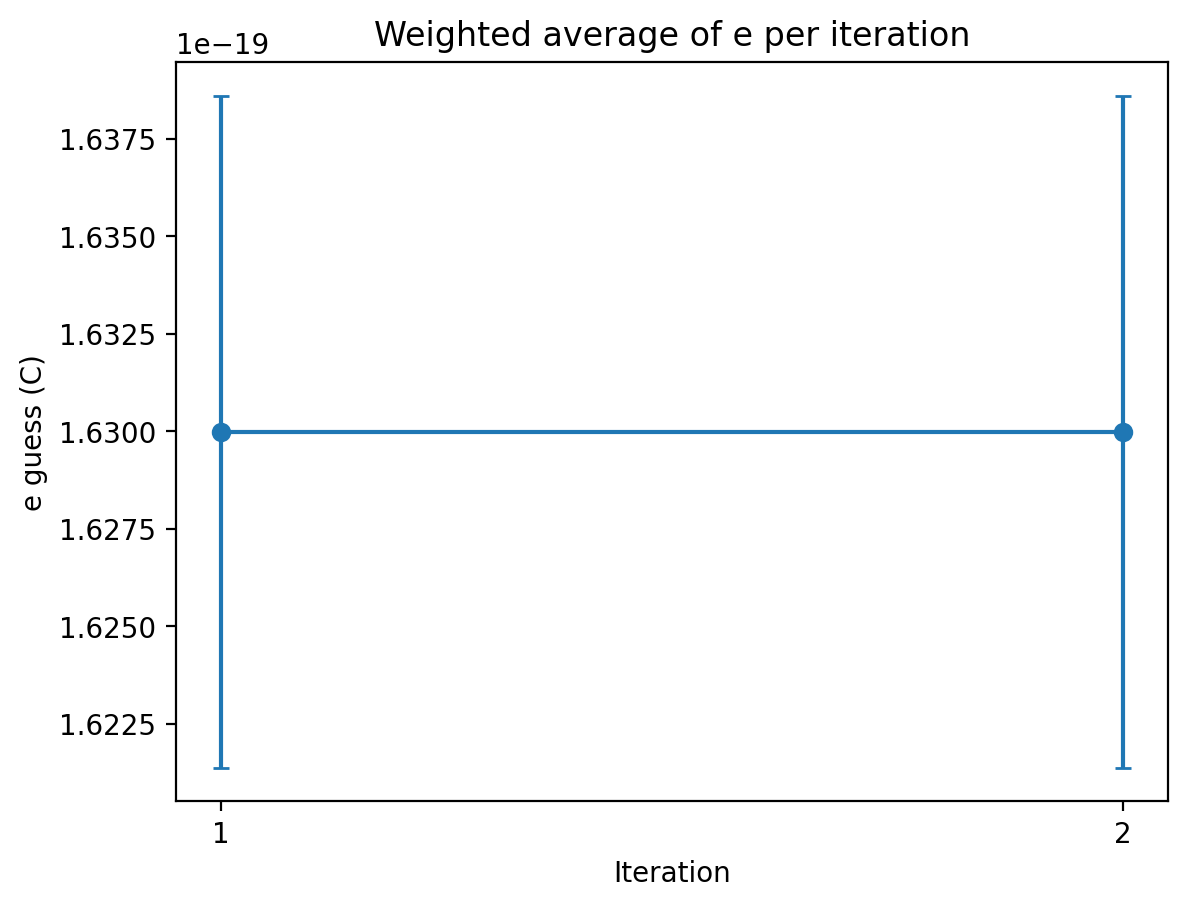
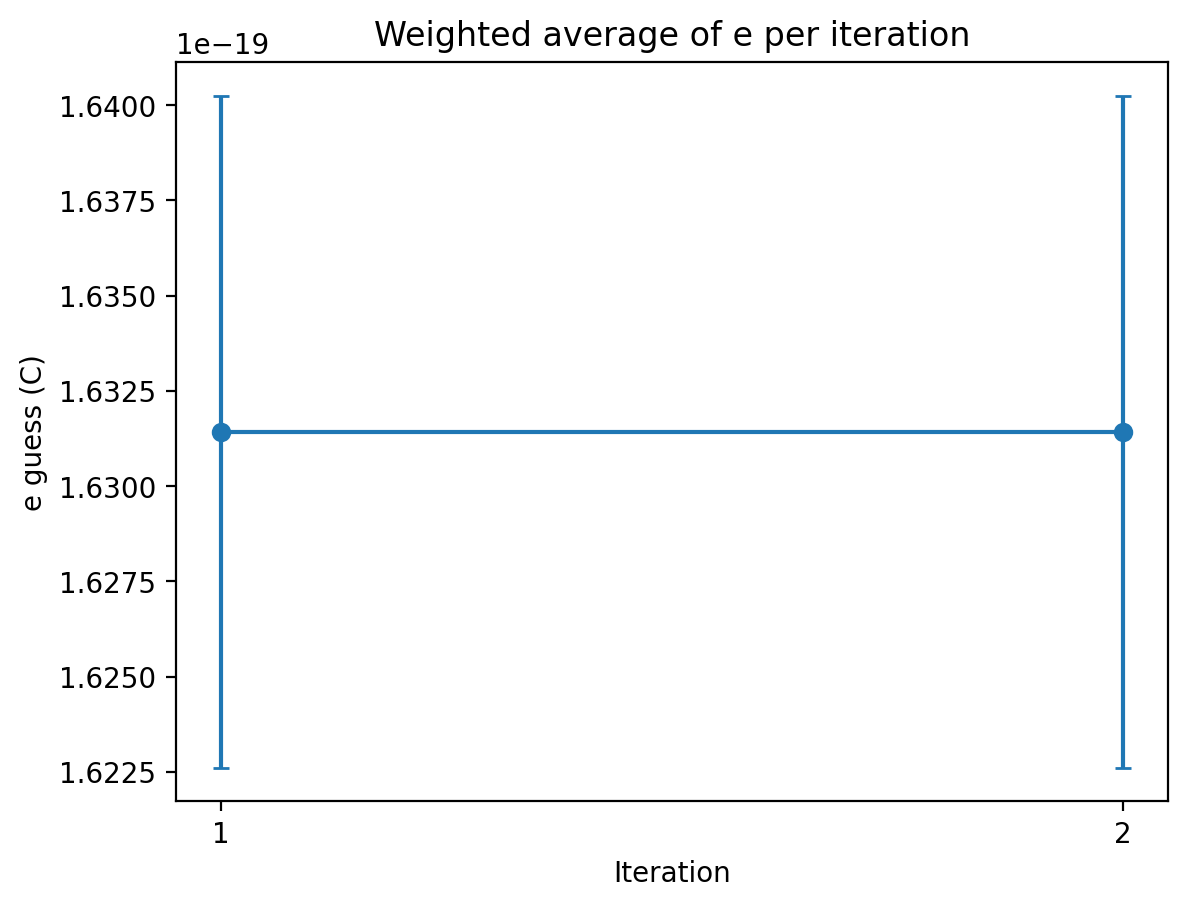
fixed unit error of correction constant b

diff --git a/python/velocity2charge.py b/python/velocity2charge.py
@@ -5,7 +5,8 @@ import matplotlib.pyplot as plt
 # constants
 gravity = 9.8008 
 oil_density = 860
-correction_constant = 6.17e-6
+#correction_constant = 6.17e-6
+correction_constant = 6.17e-6 * 1.333224
 correction_constant_unc = 0.01e-6
 accepted_q = 1.602e-19
 reference_viscosity = 1.716e-5
